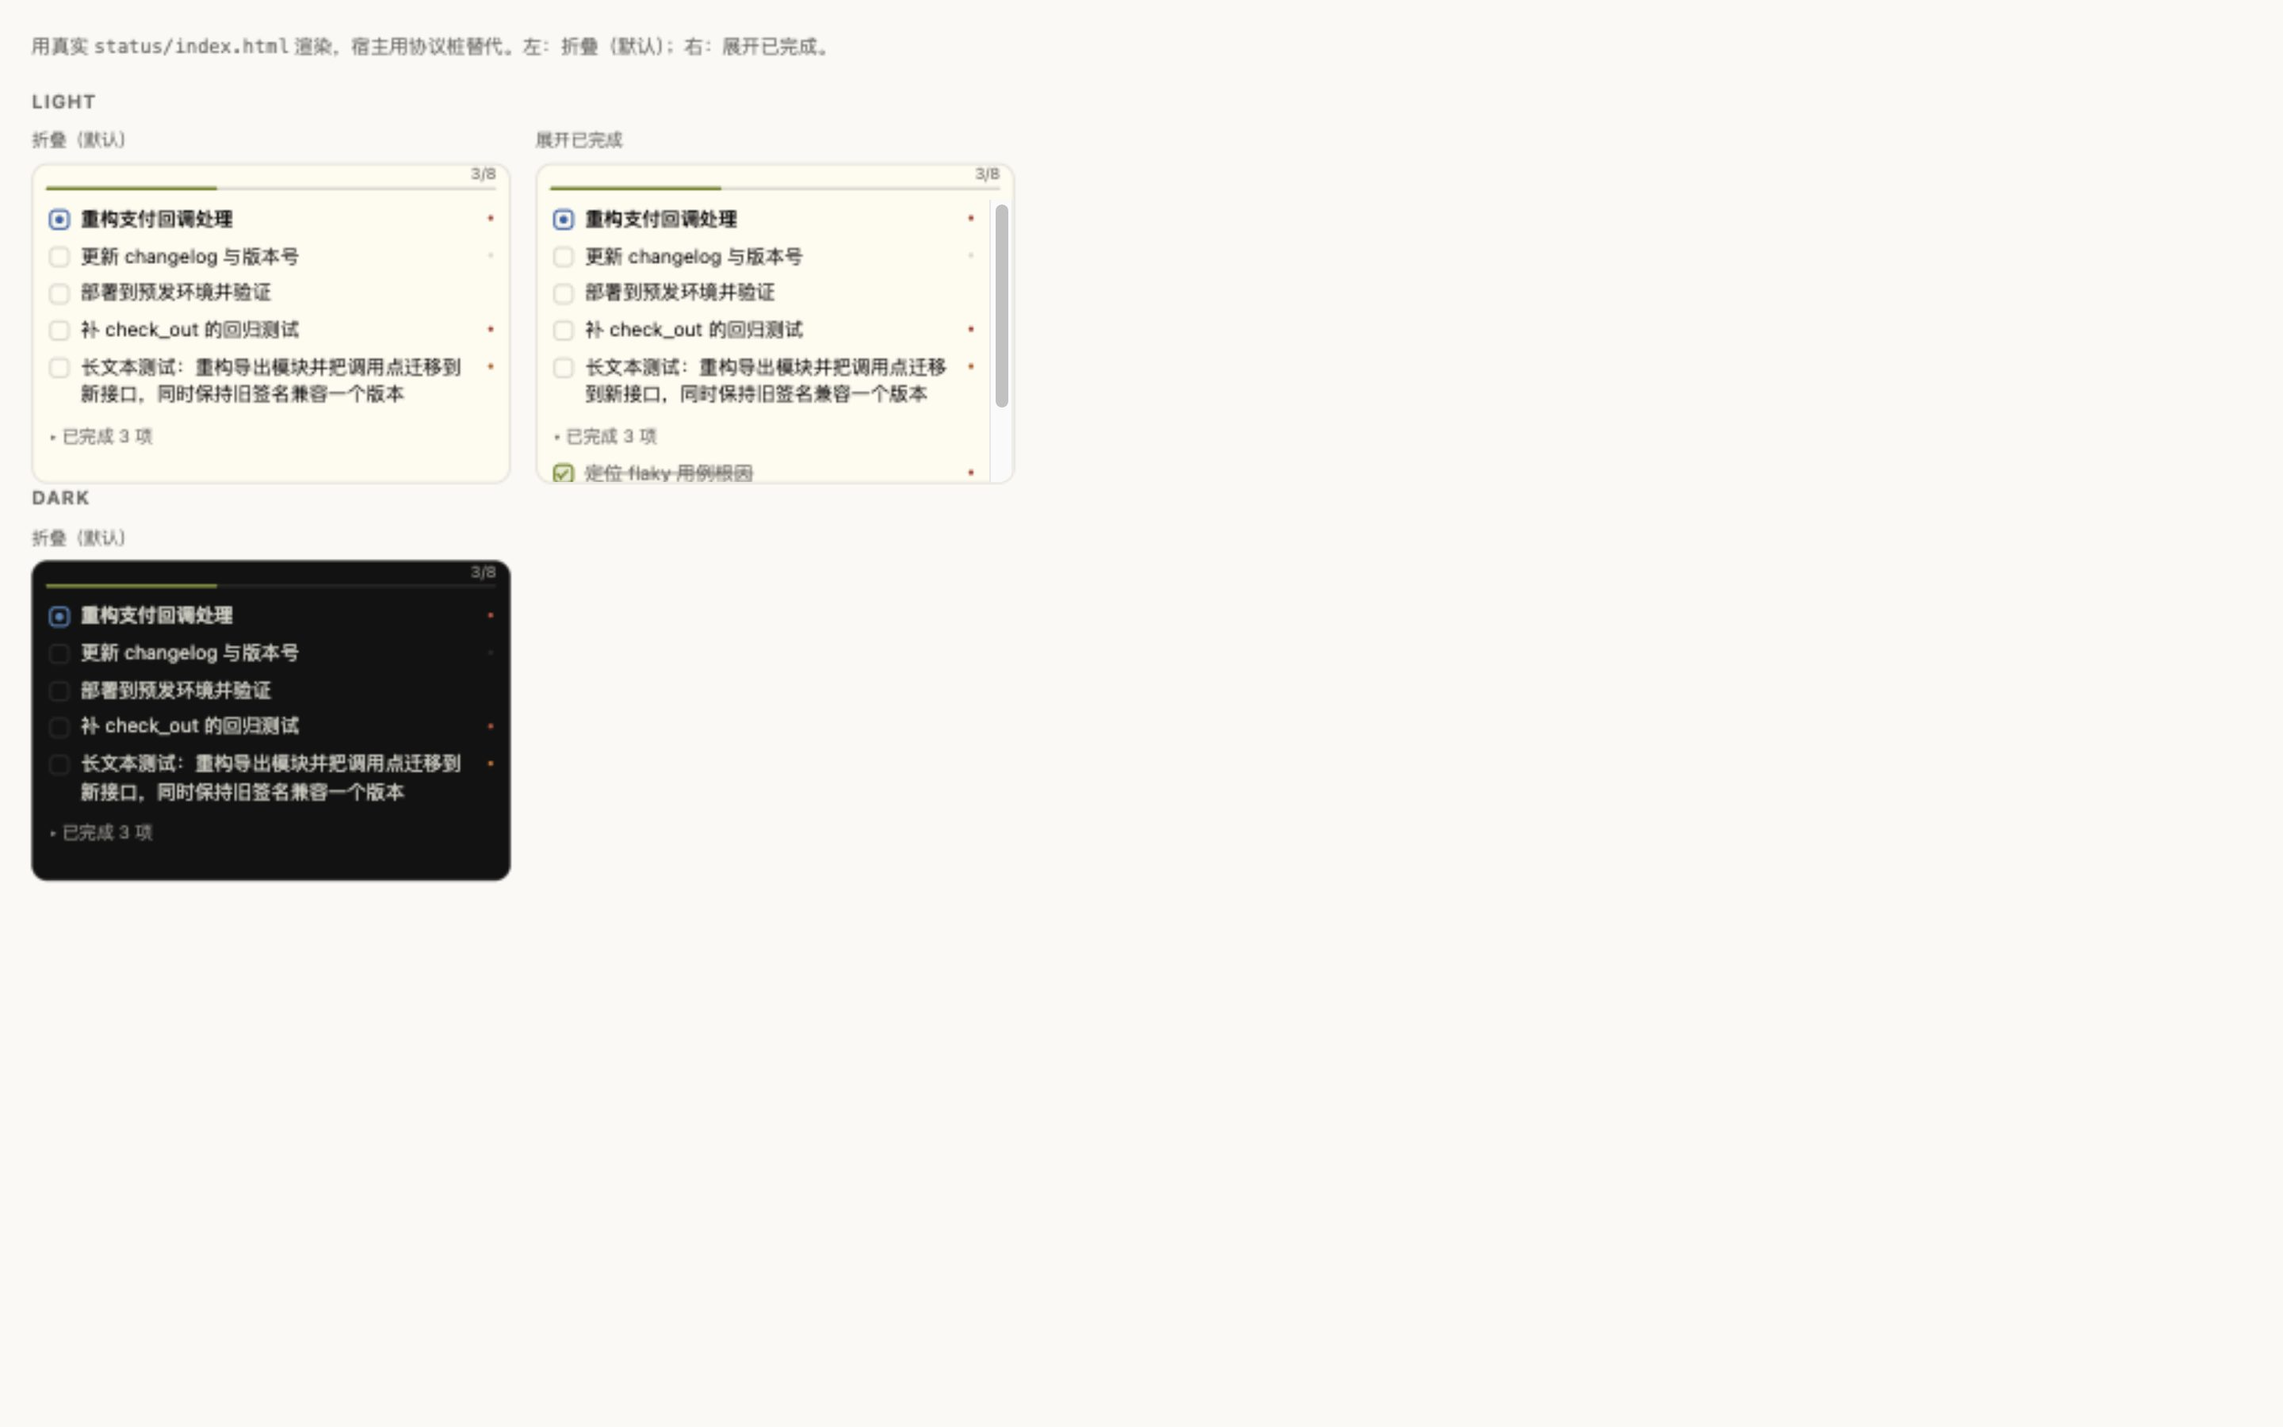
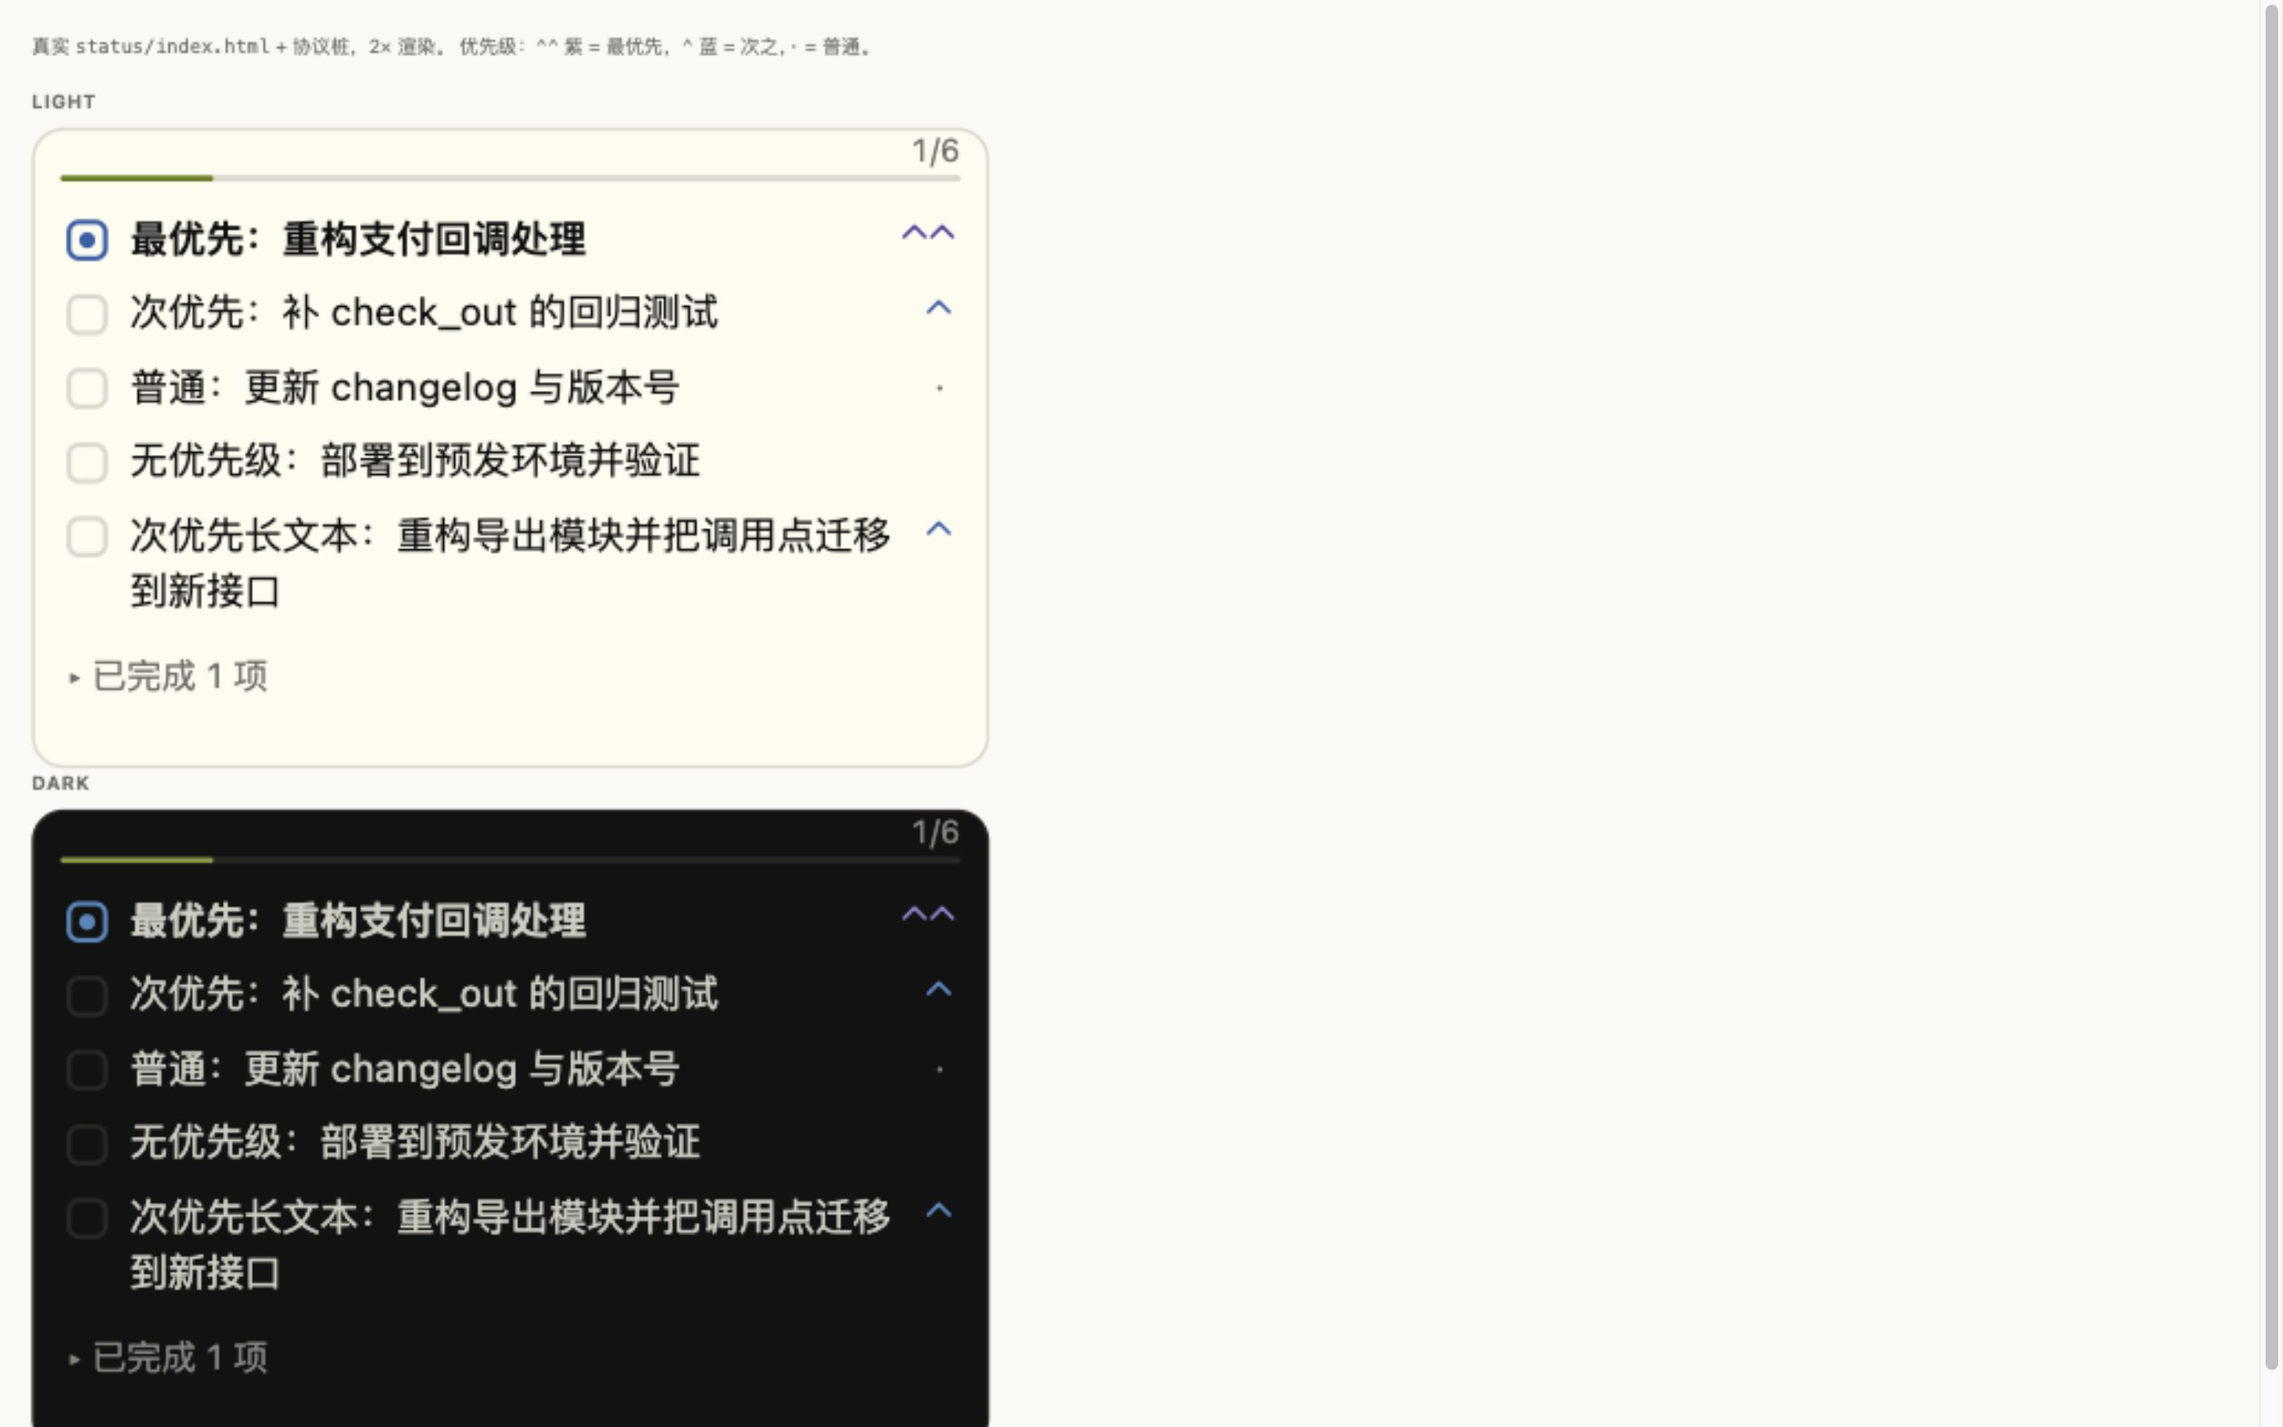
Show priority as a rising mark
Replace the coloured dot with two chevrons for the top level, one for the
next, and a dot for ordinary work: purple for high, blue for medium, muted
for low.

Characters (U+2303, U+00B7) rather than CSS-drawn shapes. The first attempt
rotated a 5px box into a chevron; its ink is about 7px tall, so stacking two
either overflowed the line or fused into a single blob at 12px. A glyph
brings its own metrics and stacks cleanly.

The mark now shares the task text's line box, so it rides the same baseline
instead of sitting at the top of the row.

The host palette has no purple, so the two priority colours are defined in
the section. applyHostReady sets data-oc-theme on the root, which selects the
dark variant; the :root values are the light ones and double as the
pre-theme fallback. Both are Flexoki, the palette the app uses.

design/verify.html now renders at 2x and the candidates probe is gone;
design/preview.jpg is the final result.

Changed region(s): [[0.0, 0.0933, 0.4688, 1.0], [0.9688, 0.0, 1.0, 0.9644], [0.0312, 0.0, 0.375, 0.0622]]

diff --git a/design/verify.html b/design/verify.html
@@ -14,26 +14,31 @@
       */
       body { margin: 0; padding: 20px; font: 13px/1.5 ui-sans-serif, system-ui, sans-serif; background: #faf9f5; color: #100f0f; }
       h2 { font-size: 12px; text-transform: uppercase; letter-spacing: .06em; color: #6f6e69; margin: 0 0 8px; }
-      .wrap { display: flex; gap: 16px; flex-wrap: wrap; }
+      .wrap { display: flex; gap: 20px; flex-wrap: wrap; }
+      /* 2x so the priority marks and their colours are actually judgeable. */
+      .zoom { zoom: 2; }
       .pane { width: 300px; height: 200px; border: 1px solid #dad8ce; border-radius: 10px; overflow: hidden; background: #FFFCF0; }
       .pane iframe { width: 100%; height: 100%; border: 0; display: block; }
       .dark .pane { background: #100f0f; border-color: #282726; }
-      .tip { color: #6f6e69; font-size: 12px; margin: 0 0 16px; }
+      .dark h2 { color: #878580; }
       .cap { font-size: 11px; color: #6f6e69; margin: 0 0 6px; }
+      .tip { color: #6f6e69; font-size: 12px; margin: 0 0 16px; }
     </style>
   </head>
   <body>
     <p class="tip">
-      用真实 <code>status/index.html</code> 渲染，宿主用协议桩替代。左：折叠（默认）；右：展开已完成。
+      真实 <code>status/index.html</code> + 协议桩，2× 渲染。
+      优先级：<code>⌃⌃</code> 紫 = 最优先，<code>⌃</code> 蓝 = 次之，<code>·</code> = 普通。
     </p>
+
     <h2>Light</h2>
-    <div class="wrap">
-      <div><p class="cap">折叠（默认）</p><div class="pane"><iframe id="l1"></iframe></div></div>
-      <div><p class="cap">展开已完成</p><div class="pane"><iframe id="l2"></iframe></div></div>
+    <div class="wrap zoom">
+      <div class="pane"><iframe id="l1"></iframe></div>
     </div>
+
     <h2>Dark</h2>
-    <div class="wrap dark">
-      <div><p class="cap">折叠（默认）</p><div class="pane"><iframe id="d1"></iframe></div></div>
+    <div class="wrap zoom dark">
+      <div class="pane"><iframe id="d1"></iframe></div>
     </div>
 
     <script>
@@ -45,15 +50,12 @@
         sessionID: "ses_demo",
         updatedAt: Date.now(),
         todos: [
-          { content: "更新 changelog 与版本号", status: "pending", priority: "low" },
-          { content: "重构支付回调处理", status: "in_progress", priority: "high" },
-          { content: "定位 flaky 用例根因", status: "completed", priority: "high" },
-          { content: "部署到预发环境并验证", status: "pending" },
-          { content: "补 check_out 的回归测试", status: "pending", priority: "high" },
-          { content: "拆分 webhook handler", status: "completed", priority: "medium" },
-          { content: "一条被取消的旧任务", status: "cancelled" },
-          { content: "长文本测试：重构导出模块并把调用点迁移到新接口，同时保持旧签名兼容一个版本",
-            status: "pending", priority: "medium" },
+          { content: "最优先：重构支付回调处理", status: "in_progress", priority: "high" },
+          { content: "次优先：补 check_out 的回归测试", status: "pending", priority: "medium" },
+          { content: "普通：更新 changelog 与版本号", status: "pending", priority: "low" },
+          { content: "无优先级：部署到预发环境并验证", status: "pending" },
+          { content: "次优先长文本：重构导出模块并把调用点迁移到新接口", status: "pending", priority: "medium" },
+          { content: "已完成的最优先项", status: "completed", priority: "high" },
         ],
       }
 
@@ -92,7 +94,6 @@
         }
       }
 
-      // One listener for every frame; route by source.
       const registry = new Map()
 
       window.addEventListener("message", (event) => {
@@ -100,41 +101,31 @@
         if (!entry) return
         const msg = event.data
         if (!msg || msg.channel !== CHANNEL || msg.v !== V) return
+        const answer = (payload) => entry.iframe.contentWindow.postMessage(payload, "*")
 
         if (msg.type === "hello") {
-          entry.iframe.contentWindow.postMessage(
-            { channel: CHANNEL, v: V, type: "ready", payload: readyPayload(entry.tokens) }, "*")
-          if (entry.expand) setTimeout(() => {
-            const btn = entry.iframe.contentDocument.getElementById("fold")
-            if (btn) btn.click()
-          }, 400)
+          answer({ channel: CHANNEL, v: V, type: "ready", payload: readyPayload(entry.tokens) })
           return
         }
-
         if (msg.type === "file-read") {
-          entry.iframe.contentWindow.postMessage(
-            { channel: CHANNEL, v: V, type: "result", id: msg.id, ok: true,
-              payload: { content: JSON.stringify(DATA) } }, "*")
+          answer({ channel: CHANNEL, v: V, type: "result", id: msg.id, ok: true,
+                   payload: { content: JSON.stringify(DATA) } })
           return
         }
-
-        // Any other guest call: answer with a benign result so nothing hangs.
         if (typeof msg.id === "string") {
-          entry.iframe.contentWindow.postMessage(
-            { channel: CHANNEL, v: V, type: "result", id: msg.id, ok: false,
-              code: "NOT_FOUND", error: "stub: not implemented" }, "*")
+          answer({ channel: CHANNEL, v: V, type: "result", id: msg.id, ok: false,
+                   code: "NOT_FOUND", error: "stub: not implemented" })
         }
       })
 
-      function mount(id, tokens, expand) {
+      function mount(id, tokens) {
         const iframe = document.getElementById(id)
-        registry.set(iframe.contentWindow, { iframe, tokens, expand })
+        registry.set(iframe.contentWindow, { iframe, tokens })
         iframe.src = "/status/index.html"
       }
 
-      mount("l1", LIGHT, false)
-      mount("l2", LIGHT, true)
-      mount("d1", DARK, false)
+      mount("l1", LIGHT)
+      mount("d1", DARK)
     </script>
   </body>
 </html>

diff --git a/status/index.html b/status/index.html
@@ -110,11 +110,44 @@
       }
       .item.cancelled .dash { width: 6px; height: 1.5px; background: var(--t-muted); }
 
-      /* priority: a quiet dot, not a label */
-      .pri { flex: 0 0 auto; width: 3px; height: 3px; border-radius: 999px; margin-top: 7px; }
-      .pri.high { background: var(--t-error); }
-      .pri.medium { background: var(--t-warning); }
-      .pri.low { background: var(--t-border); }
+      /*
+        Priority reads as a rising mark rather than a label: two chevrons for the
+        top level, one for the next, a dot for ordinary work. These are real
+        characters (U+2303, U+00B7) rather than CSS-drawn shapes: a rotated box
+        has ~7px of ink inside a 5px box, so two of them either overflow the line
+        or fuse into a single blob. A glyph brings its own metrics.
+
+        The host palette has no purple, so the priority colours are defined here.
+        `applyHostReady` sets `data-oc-theme` on the root, which gives the dark
+        variant; the `:root` values are the light ones and double as the
+        pre-theme fallback. Values are Flexoki, the palette the app uses.
+      */
+      :root {
+        --t-pri-high: #5e409d;
+        --t-pri-medium: #205ea6;
+      }
+      [data-oc-theme="dark"] {
+        --t-pri-high: #8b7ec8;
+        --t-pri-medium: #4385be;
+      }
+      .pri {
+        flex: 0 0 auto;
+        min-width: 9px;
+        /*
+          Share the text's line box so the glyph rides the same baseline as the
+          task: `⌃` sits above the baseline and `·` at mid-x-height, which is the
+          natural alignment. An independent line-height here pushed the mark to
+          the top of the row.
+        */
+        font-size: 11px;
+        line-height: 17.4px;
+        text-align: center;
+        color: var(--t-muted);
+      }
+      .pri.high { color: var(--t-pri-high); }
+      .pri.medium { color: var(--t-pri-medium); }
+      /* The pair should read as one mark, not two separate characters. */
+      .pri.high { letter-spacing: -1px; }
 
       /* ---- finished group toggle ---- */
       #fold {

diff --git a/status/main.js b/status/main.js
@@ -1341,6 +1341,11 @@ textarea.oc-sdk-input { height: auto; padding: 8px 12px; resize: vertical; }
   var BOOT_WATCHDOG_MS = 1600;
   var STATUSES = new Set(["pending", "in_progress", "completed", "cancelled"]);
   var PRIORITY_CLASS = { high: "high", medium: "medium", low: "low" };
+  var PRIORITY_MARK = {
+    high: "⌃⌃",
+    medium: "⌃",
+    low: "·"
+  };
   var el2 = (id) => document.getElementById(id);
   var host = null;
   var sessionID = null;
@@ -1390,15 +1395,16 @@ textarea.oc-sdk-input { height: auto; padding: 8px 12px; resize: vertical; }
     }).map((entry) => entry.todo);
   }
   function itemHtml(todo) {
-    const pri = PRIORITY_CLASS[todo.priority] ? `<span class="pri ${PRIORITY_CLASS[todo.priority]}"></span>` : "";
-    let mark = '<span class="box"></span>';
+    const mark = PRIORITY_MARK[todo.priority] || "";
+    const pri = mark ? `<span class="pri ${PRIORITY_CLASS[todo.priority] || ""}">${mark}</span>` : "";
+    let box = '<span class="box"></span>';
     if (todo.status === "completed")
-      mark = '<span class="box"><span class="tick"></span></span>';
+      box = '<span class="box"><span class="tick"></span></span>';
     else if (todo.status === "in_progress")
-      mark = '<span class="box"><span class="dot"></span></span>';
+      box = '<span class="box"><span class="dot"></span></span>';
     else if (todo.status === "cancelled")
-      mark = '<span class="box"><span class="dash"></span></span>';
-    return `<div class="item ${esc(todo.status)}">` + mark + `<span class="txt">${esc(todo.content)}</span>${pri}</div>`;
+      box = '<span class="box"><span class="dash"></span></span>';
+    return `<div class="item ${esc(todo.status)}">` + box + `<span class="txt">${esc(todo.content)}</span>${pri}</div>`;
   }
   function paint(todos) {
     const top = el2("top");

diff --git a/src/main.js b/src/main.js
@@ -37,6 +37,12 @@ const REQUEST_TIMEOUT_MS = 3000
 const BOOT_WATCHDOG_MS = 1600
 const STATUSES = new Set(["pending", "in_progress", "completed", "cancelled"])
 const PRIORITY_CLASS = { high: "high", medium: "medium", low: "low" }
+/** Rising mark: one chevron for medium, two for high, a dot for ordinary work. */
+const PRIORITY_MARK = {
+  high: "⌃⌃",
+  medium: "⌃",
+  low: "·",
+}
 
 const el = (id) => document.getElementById(id)
 
@@ -99,15 +105,16 @@ function order(list) {
 }
 
 function itemHtml(todo) {
-  const pri = PRIORITY_CLASS[todo.priority] ? `<span class="pri ${PRIORITY_CLASS[todo.priority]}"></span>` : ""
-  let mark = '<span class="box"></span>'
-  if (todo.status === "completed") mark = '<span class="box"><span class="tick"></span></span>'
-  else if (todo.status === "in_progress") mark = '<span class="box"><span class="dot"></span></span>'
-  else if (todo.status === "cancelled") mark = '<span class="box"><span class="dash"></span></span>'
+  const mark = PRIORITY_MARK[todo.priority] || ""
+  const pri = mark ? `<span class="pri ${PRIORITY_CLASS[todo.priority] || ""}">${mark}</span>` : ""
+  let box = '<span class="box"></span>'
+  if (todo.status === "completed") box = '<span class="box"><span class="tick"></span></span>'
+  else if (todo.status === "in_progress") box = '<span class="box"><span class="dot"></span></span>'
+  else if (todo.status === "cancelled") box = '<span class="box"><span class="dash"></span></span>'
 
   return (
     `<div class="item ${esc(todo.status)}">` +
-    mark +
+    box +
     `<span class="txt">${esc(todo.content)}</span>${pri}</div>`
   )
 }

diff --git a/design/README.md b/design/README.md
@@ -28,8 +28,32 @@ The section worked but looked like a terminal:
 | 2px progress bar under the count | Progress is visible without reading numbers |
 | Work in progress pinned to the top | The open item is what the reader wants first |
 | Finished items collapse into `已完成 N 项` | Spends the 200px on open work; expands on click, and the choice survives re-renders |
-| Priority as a 3px dot (red / orange / muted) | Visible at a glance, does not compete with the text |
+| Priority as a rising mark: `⌃⌃` / `⌃` / `·` | Visible at a glance, does not compete with the text |
 | Long text wraps; row height stays predictable | |
+
+## Priority marks
+
+Two chevrons for the top level, one for the next, a dot for ordinary work.
+
+| Mark | Priority | Colour |
+| --- | --- | --- |
+| `⌃⌃` | high | purple — `#5e409d` light, `#8b7ec8` dark |
+| `⌃` | medium | blue — `#205ea6` light, `#4385be` dark |
+| `·` | low | muted (host `--oc-muted`) |
+
+Characters, not CSS-drawn shapes. A first attempt rotated a 5px box into a
+chevron; its ink is about 7px tall, so stacking two either overflowed the 17px
+line or fused into one blob. `U+2303` brings its own metrics and stacks cleanly
+with `letter-spacing: -1px`.
+
+The mark shares the task text's line box (`line-height` matched to the body), so
+it rides the same baseline. An independent line-height pushed it to the row top.
+
+The host palette has no purple, so the two priority colours are defined here.
+`applyHostReady` sets `data-oc-theme` on the root, which selects the dark
+variant; the `:root` values are the light ones and double as the pre-theme
+fallback. Both are Flexoki, the palette the app uses.
+
 
 ## Colours
 
@@ -47,8 +71,8 @@ paint is readable before the theme lands.
 
 - `preview.html` — three candidate layouts side by side, light and dark. The
   chosen one is **A · Checklist**.
-- `verify.html` — renders the real shipped page against a protocol stub, so a
-  change to `status/` can be checked without installing it.
+- `verify.html` — renders the real shipped page against a protocol stub at 2×, so
+  a change to `status/` or `src/` can be checked without installing it.
 - `preview.jpg` — the screenshot above.
 
 ## Checking a change
